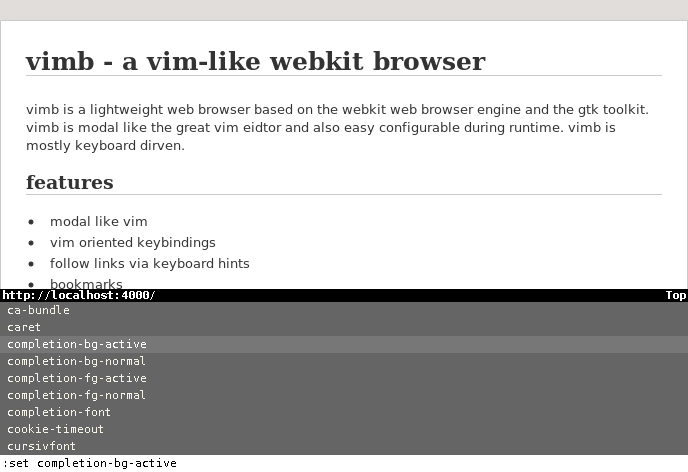
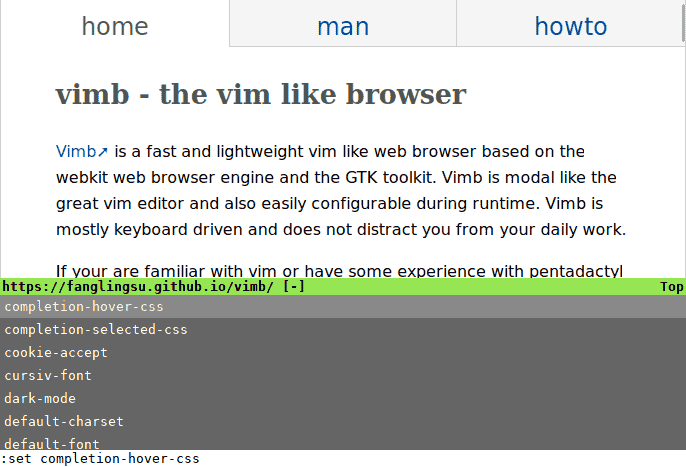
Modernized the screenshots

Changed region(s): [[0.0, 0.0, 1.0, 1.0]]

diff --git a/index.md b/index.md
@@ -39,8 +39,8 @@ More about latest changes can be found in the [CHANGELOG.md][].
 There isn't really much to see for a browser that is controlled via keyboard.
 But following images may give a impression of they way vimb works.
 
-[![vimb hinting marks active element like links](media/vimb-hints.png "link hinting (688x472 15kB)"){:width="350"}](media/vimb-hints.png)
-[![completion with scrallable completion menu](media/vimb-completion.png "completion of settings (690x472 11kB)"){:width="350"}](media/vimb-completion.png)
+[![vimb hinting marks active element like links](media/vimb-hints.png "link hinting (684x465 : 13kB)"){:width="350"}](media/vimb-hints.png)
+[![completion with scrallable completion menu](media/vimb-completion.png "completion of settings (686x467 : 13kB)"){:width="350"}](media/vimb-completion.png)
 
 ## features
 - it's modal like Vim
@@ -129,3 +129,4 @@ If you find a misbehaviour or have feature requests use the
 [pkgsrc/www/vimb]:     http://pkgsrc.se/www/vimb
 [network/vimb]:        https://build.opensuse.org/package/show/network/vimb
 [CHANGELOG.md]:        https://github.com/fanglingsu/vimb/blob/master/CHANGELOG.md "Changelog of the vimb browser project"
+*[feature]: "asdf asdf"
